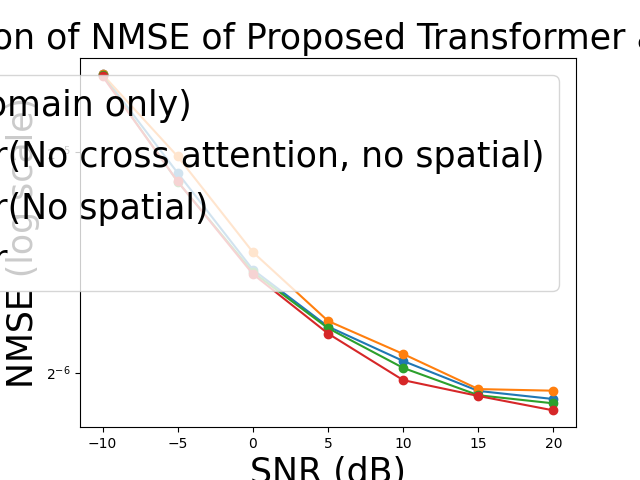
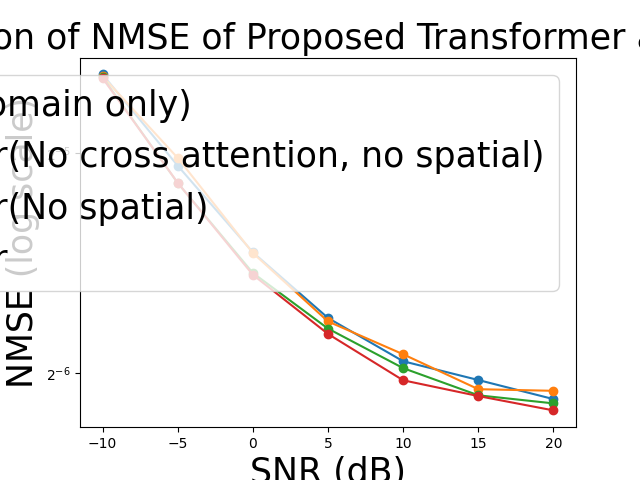
message

diff --git a/SPR-CNN/result-modality-transformer.py b/SPR-CNN/result-modality-transformer.py
@@ -11,7 +11,7 @@ y1 = [0.6419357114932095, 0.3948697806398535, 0.2653386565881674, 0.175961235616
 # Transformers(Encoder * 2 + Decoder * 2), epochs = 200, lr = 0.0001, batch_size = 32
 # reshape type = (Nr, Nt, channel)
 # 自己寫的 multi-head attention
-y2 = [0.03987005725502968, 0.029254980385303497, 0.02198883332312107, 0.018056659027934074, 0.016204895451664925, 0.01474946178495884, 0.014378390274941921]
+y2 = [0.04010997712612152, 0.030061252415180206, 0.02286352589726448, 0.018579063937067986, 0.016204895451664925, 0.015272018499672413, 0.014378390274941921]
 
 # Transformers(Encoder * 2 + Decoder * 2, (16 * 32 * 4)), epochs = 200, lr = 0.0001, batch_size = 32
 # 自己寫的 multi-head self attention, full attention
@@ -63,7 +63,7 @@ y1 = [12.376030106733767, 13.813554657995969, 14.51362168247246, 14.977598826832
 # Transformers(Encoder * 2 + Decoder * 2), epochs = 200, lr = 0.0001, batch_size = 32
 # reshape type = (Nr, Nt, channel)
 # 自己寫的 multi-head attention
-y2 = [15.490602115597438, 15.58706522935487, 15.652725337861053, 15.688134016492416, 15.70477877832414, 15.71784768980056, 15.721177762372365]
+y2 = [15.488414550056097, 15.579760882190199, 15.64483701235907, 15.68343480874185, 15.70477877832414, 15.713156822752882, 15.721177762372365]
 
 # Transformers(Encoder * 2 + Decoder * 2, (16 * 32 * 4)), epochs = 200, lr = 0.0001, batch_size = 32
 # 自己寫的 multi-head self attention, full attention
@@ -140,7 +140,7 @@ plt.show()
 # Transformers(Encoder * 2 + Decoder * 2), epochs = 200, lr = 0.0001, batch_size = 32
 # reshape type = (Nr, Nt, channel)
 # 自己寫的 multi-head attention
-y1 = [0.03987005725502968, 0.029254980385303497, 0.02159520797431469, 0.018056659027934074, 0.016204895451664925, 0.01474946178495884, 0.014378390274941921]
+y1 = [0.04010997712612152, 0.030061252415180206, 0.02286352589726448, 0.018579063937067986, 0.016204895451664925, 0.015272018499672413, 0.014378390274941921]
 
 # Transformers(Encoder * 2 + Decoder * 2, (16 * 32 * 4)), epochs = 200, lr = 0.0001, batch_size = 32
 # 自己寫的 multi-head self attention, full attention
@@ -194,7 +194,7 @@ x = [-10, -5, 0, 5, 10, 15, 20]
 # Transformers(Encoder * 2 + Decoder * 2), epochs = 200, lr = 0.0001, batch_size = 32
 # reshape type = (Nr, Nt, channel)
 # 自己寫的 multi-head attention
-y1 = [15.490602115597438, 15.58706522935487, 15.656273772156585, 15.688134016492416, 15.70477877832414, 15.71784768980056, 15.721177762372365]
+y1 = [15.488414550056097, 15.579760882190199, 15.64483701235907, 15.68343480874185, 15.70477877832414, 15.713156822752882, 15.721177762372365]
 
 # Transformers(Encoder * 2 + Decoder * 2, (16 * 32 * 4)), epochs = 200, lr = 0.0001, batch_size = 32
 # 自己寫的 multi-head self attention, full attention

diff --git a/SPR-CNN/loop.py b/SPR-CNN/loop.py
@@ -14,15 +14,15 @@ with open('output.txt', 'a') as f:
     # 恢复原始的标准输出
     sys.stdout = original_stdout
 # 要执行的命令的基础部分
-base_command = "python3 modality-aware.py"
+base_command = "python3 main.py"
 
 # 要执行的 SNR_dB 参数的范围
-SNR_dB_range = range(-10, 101, 5)
+SNR_dB_range = range(-10, 21, 5)
 
 # 遍历 SNR_dB 参数的范围
 for SNR_dB in SNR_dB_range:
     # 构建完整的命令字符串
-    command = f"{base_command} 0"
+    command = f"{base_command} -10"
     
     # 执行命令
     result = subprocess.run(command, shell=True)
